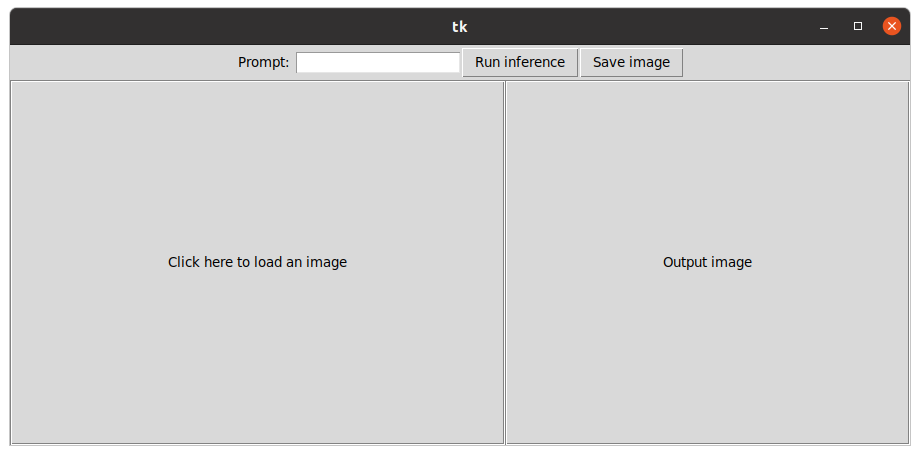
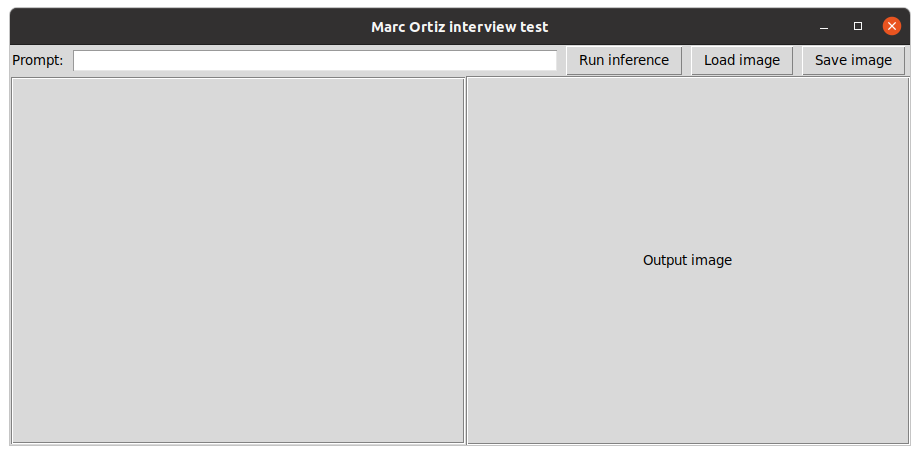
Stable diffusion in area drawn

Changed region(s): [[0.0, 0.0308, 1.0, 0.9846], [0.1826, 0.5538, 0.3957, 0.5846], [0.7, 0.5538, 0.8217, 0.5846]]

diff --git a/src/gui/gui.py b/src/gui/gui.py
@@ -3,16 +3,19 @@
     Date: 19 Feb 2024
 """
 
-from ai.inference import StableDiffusion
+from src.ai.inference import StableDiffusion
 
-from PIL import Image, ImageTk
 import tkinter as tk
+import numpy as np
+from PIL import Image, ImageTk, ImageDraw, ImageOps
 from tkinter import filedialog as fd
 
 class Window:
 
     def __init__(self):
         self.engine = StableDiffusion()
+        self.rectangle = []
+        self.canvas_ids = []
 
         self.window = tk.Tk()
         self.window.geometry("900x400")
@@ -20,38 +23,43 @@ class Window:
 
         # Controls line 1
         self.control_frame_1 = tk.Frame(self.window)
-        self.control_frame_1.grid(row=0, columnspan=2, pady=2)
-        self.window.grid_columnconfigure(0, weight=1)
+        self.control_frame_1.grid(row=0, columnspan=2, sticky='ew')
 
         self.prompt_text_description = tk.Label(self.control_frame_1, text='Prompt: ')
         self.prompt_text_description.pack(side=tk.LEFT)
-        self.prompt_text = tk.Entry(self.control_frame_1)
+        self.prompt_text = tk.Entry(self.control_frame_1, width=60)
         self.prompt_text.pack(side=tk.LEFT, expand=True)
 
         self.inference_button = tk.Button(self.control_frame_1, text='Run inference')
         self.inference_button.pack(side=tk.LEFT, expand=True)
         self.inference_button.bind('<Button-1>', self.do_inference)
 
+        self.save_button = tk.Button(self.control_frame_1, text='Load image')
+        self.save_button.pack(side=tk.LEFT, expand=True)
+        self.save_button.bind('<Button-1>', self.load_input_image)
+
         self.save_button = tk.Button(self.control_frame_1, text='Save image')
-        self.save_button.pack(side=tk.LEFT)
+        self.save_button.pack(side=tk.LEFT, expand=True)
         self.save_button.bind('<Button-1>', self.save_file)
 
         # Input image
-        self.input_frame = tk.Frame(self.window, width=350, height=300)
+        self.input_frame = tk.Frame(self.window, width=450, height=400)
         self.input_frame.grid(row=1, column=0, sticky="nsew")
 
-        self.window.grid_rowconfigure(1, weight=1)
-        self.window.grid_columnconfigure(0, weight=1)
-
-        self.input_image_label = tk.Label(self.input_frame,
-                                          text='Click here to load an image',
-                                          borderwidth=2,
-                                          relief="groove")
+        self.input_image_label = tk.Canvas(self.input_frame,
+                                           borderwidth=2,
+                                           relief="groove",
+                                           height=400,
+                                           width=450)
         self.input_image_label.pack(fill=tk.BOTH, expand=True)
-        self.input_image_label.bind('<Button-1>', self.load_input_image)
+        self.input_image_label.bind('<Button-1>', self.draw_rectangle)
+
+        self.image_canvas = self.input_image_label.create_image(self.input_image_label.winfo_width()/10,
+                                                                self.input_image_label.winfo_height()/10,
+                                                                anchor=tk.NW)
 
         # Output image
-        self.output_frame = tk.Frame(self.window, width=350, height=300)
+        self.output_frame = tk.Frame(self.window, width=450, height=400)
         self.output_frame.grid(row=1, column=1, sticky="nsew")
 
         self.window.grid_rowconfigure(1, weight=1)
@@ -63,19 +71,28 @@ class Window:
                                            relief="groove")
         self.output_image_label.pack(fill=tk.BOTH, expand=True)
 
-
     def load_input_image(self, event):
         self.filename = fd.askopenfilename()
-        pilimage = Image.open(self.filename)
+        pilimage = Image.open(self.filename).resize((self.input_image_label.winfo_width(),
+                                                     self.input_image_label.winfo_height()))
         self.tkimage_input = ImageTk.PhotoImage(pilimage)
-        self.input_image_label.config(image=self.tkimage_input)
+        self.input_image_label.itemconfig(self.image_canvas, image=self.tkimage_input)
 
     def do_inference(self, event):
         prompt = self.prompt_text.get()
+        if len(self.rectangle) == 5:
+            mask = Image.fromarray(self.make_mask_from_rectangle())
+        else:
+            mask = None
+
         if prompt.isascii() and len(prompt):
-            image = Image.open(self.filename)
-            self.output = self.engine.run(image, prompt)[0]
-            self.tkimage_output = ImageTk.PhotoImage(self.output)
+            image = Image.open(self.filename).resize((self.output_frame.winfo_width(), self.output_image_label.winfo_height()))
+            output = self.engine.run(image, prompt)[0].resize((self.output_frame.winfo_width(), self.output_image_label.winfo_height()))
+            if mask is not None:
+                self.final_image = Image.composite(image, output, mask)
+            else:
+                self.final_image = output
+            self.tkimage_output = ImageTk.PhotoImage(self.final_image)
             self.output_image_label.config(image=self.tkimage_output)
         else:
             print('Prompt is not valid')
@@ -84,6 +101,28 @@ class Window:
         file = fd.asksaveasfile(mode='w', defaultextension=".png")
         if file:
             self.output.save(file)
+
+    def make_mask_from_rectangle(self):
+        img = Image.new('L', (self.output_frame.winfo_width(),  self.output_image_label.winfo_height()), 0)
+        ImageDraw.Draw(img).polygon(self.rectangle, outline=255, fill=255)
+        inverted_img = ImageOps.invert(img)
+        mask = np.array(inverted_img)
+        return mask
+
+    def draw_rectangle(self, event):
+
+        if len(self.rectangle) > 3:
+            self.rectangle.append(self.rectangle[0])
+            print(self.rectangle)
+        else:
+            self.rectangle.append((event.x, event.y))
+
+        if len(self.rectangle) > 1:
+            self.input_image_label.create_line(*self.rectangle[-1], *self.rectangle[-2], tags='rectangle')
+
+        if len(self.rectangle) > 5:
+            self.rectangle = []
+            self.input_image_label.delete('rectangle')
 
     def run(self):
         self.window.mainloop()

diff --git a/README.md b/README.md
@@ -3,15 +3,17 @@
 This repository contains code to run a stable diffusion model that generates new images, given an existing image and a promp text.
 The software can be interacted via GUI or terminal, as shown in the picture below:
 
-![Alt text](./images_readme/example_interface.png)
+![Alt text](./images_readme/step3.png)
 
 The model not only changes the style of the input image, but is also to interpret what you request in the prompt and add it to the final image.
 
 
 ## Installation
-Install pytorch >= 2.0 with cuda support.
+Install pytorch >= 2.0 with **cuda support**.
 
-Install the requirements: `pip install -r requirements.txt` 
+Install Tkinter: `sudo apt-get install python-tk ` in Ubuntu.
+
+Create a conda environment: `conda env create -f environment.yml` 
 
 Add the location of the project to PYTHONPATH: \
 `export PYTHONPATH=$PYTHONPATH/path/to/project/folder`
@@ -21,18 +23,24 @@ Add the location of the project to PYTHONPATH: \
 Execute the script you'll find in `./src/gui/gui.py`. It will take a bit of time to open since it's loading the model. \
 ![Alt text](./images_readme/step1.png)
 
-#### Step 2: Click on the left side of the panel to load an image
-![Alt text](./images_readme/steep2.png)
+#### Step 2: Load an image
+![Alt text](./images_readme/step2.png)
 
-#### Step 3: Write a prompt and click button to run  inference
-![Alt text](./images_readme/step4.png)
+#### Step 3: Write a prompt and click the button to run  inference
+![Alt text](./images_readme/step3.png)
+
+#### Step 4: Select the area of the image to change
+You can also select a rectangle in the input image where you want the prompt to be applied. In the following example, we take a portrait of a person and change it to become a gladiator, with a background of a Roman city
+![Alt text](./images_readme/step5.png)
 
 #### Optional: Run without interface
-You can also run the code without a graphical interface. To do so, please execute the script in `./src/ai/inference.py` with the right arguments.
+You can also run the code without a graphical interface. To do so, please execute the script in `./src/ai/inference.py`.
 
-## Improvements
-* Select the region in the image that you want the style to be applied
-* Possibility to generate an image from scratch with the prompt
+## Room for improvement
+Here I list some improvements that could be done to the project:
+* Implement a metric that allows the user to select the best output of the generative model based on some threshold.
+* Use a segmentation model to detect better the contour of the parts of the image we want to change.
+* Have the option to generate an image from scratch with a prompt.
 
 ## Information
 **Author**: Marc Ortiz Torres \
